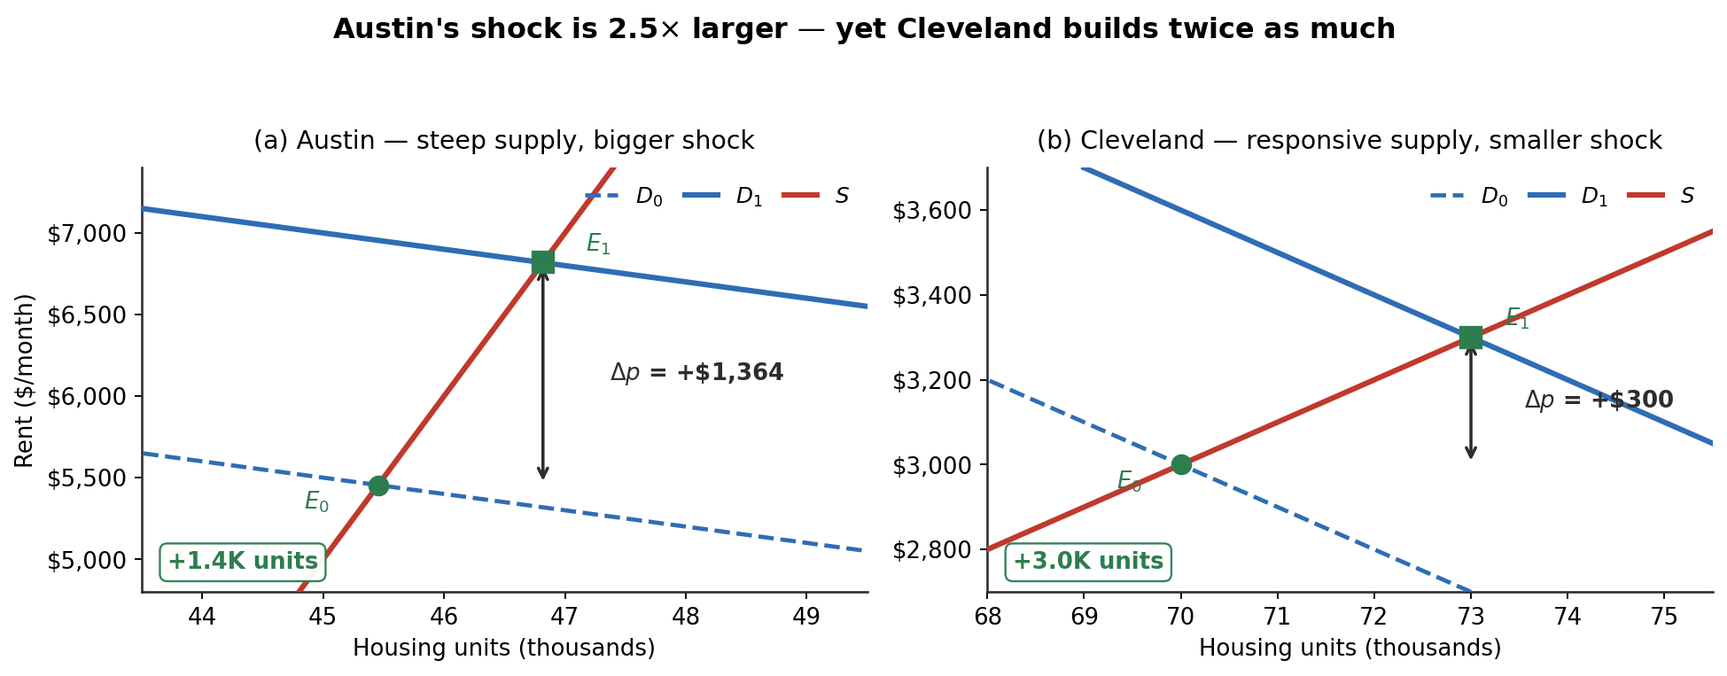
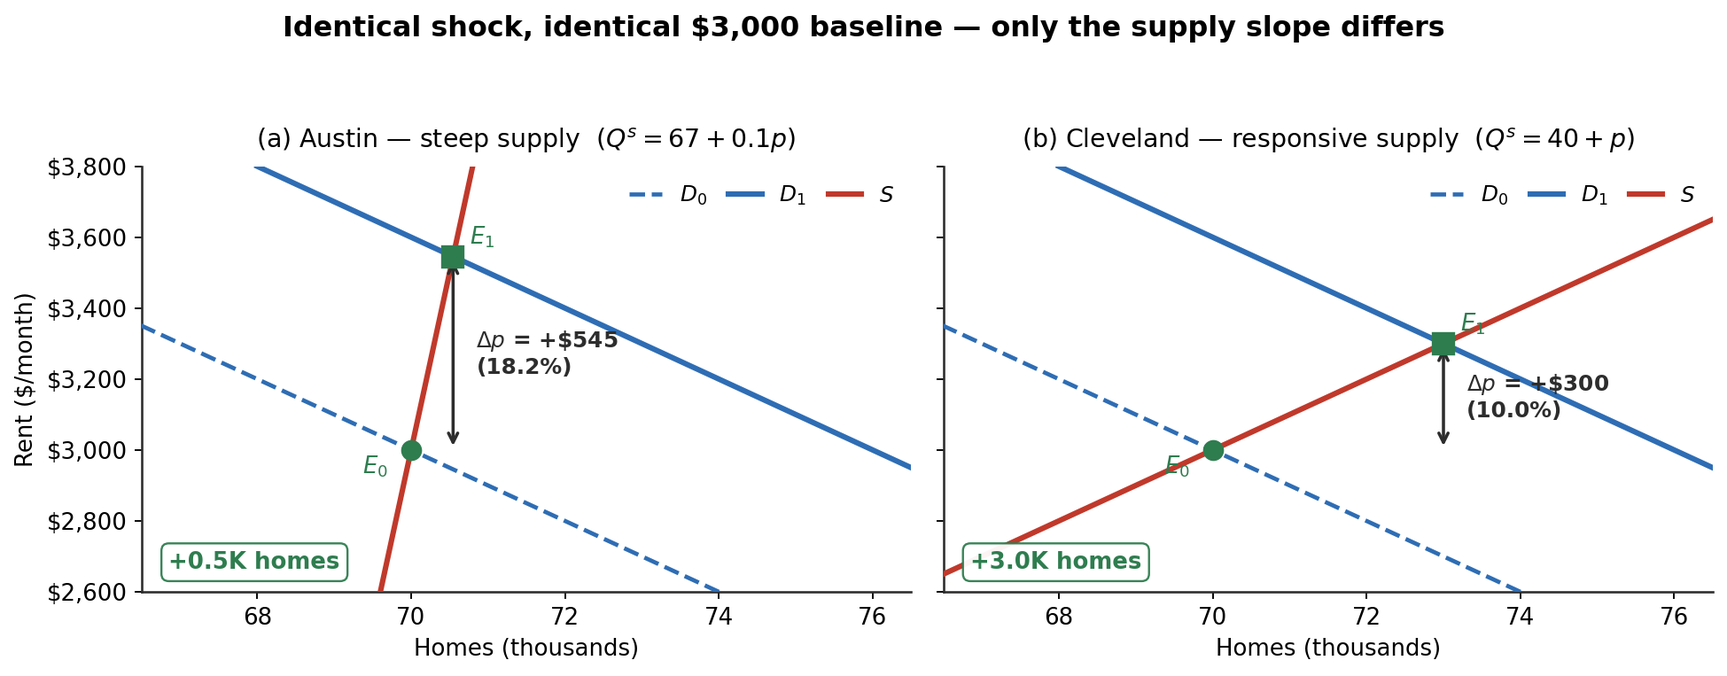
2316 Ch 2: recalibrate Austin vs Cleveland so the gap is a supply-slope result
The Sept 16 slide ran Austin at alpha=15 and Cleveland at alpha=6, which made
the 25%-vs-10% rent gap an artifact of the shock size, not the supply slope:
worked symbolically, the percentage price response is alpha/60 in BOTH cities.

Hold the shock fixed at alpha=6 and move the difference into the supply
intercept (Austin Qs = 67 + 0.1p, Cleveland Qs = 40 + p). Both cities now start
at the same equilibrium ($3,000, 70K) and rents go to $3,545 (+18.2%) and
$3,300 (+10.0%), so 18.2/10 = 1.82 = 0.909/0.500 -- the percentage gap now
EQUALS the ratio of the derivatives.

- W2.6: new calibration, both panels, plus the ratio payoff and rewritten notes
- Poll #5: stem states the controlled comparison; answer moves C -> B, with A/C
  named as the trap (in the real ZORI data Austin's shock was bigger too)
- Slide 35: prints the design condition -- identical shock, identical baseline
- figure_austin_cleveland.png regenerated on shared axes with identical demand
  curves and a shared E0, so only the supply slope differs on screen

diff --git a/econ2316/ch02-supply-demand/index.html b/econ2316/ch02-supply-demand/index.html
@@ -2737,6 +2737,9 @@
        <p style="font-size: 12pt; color: var(--muted-color); margin-top: 10px; font-style: italic;">
         Source: Zillow Observed Rent Index (ZORI), 2020&ndash;2026.
        </p>
+       <div style="background:#f0f5f8;border-left:4px solid var(--secondary-color);border-radius:8px;padding:9px 15px;margin-top:10px;">
+        <p style="font-size:12pt;line-height:1.5;margin:0;"><strong>Design condition for what follows.</strong> In the model we are about to build, both cities get the <em>identical</em> demand shock from the <em>identical</em> starting rent &mdash; so anything that differs in the outcome has to come from <strong>supply</strong>.</p>
+       </div>
       </div>
       <div style="text-align: center;">
        <img alt="ZORI rent paths for Austin (steep 2021-2022 spike) vs Cleveland (smoother growth) 2020-2026" class="figure" src="figures/figure_009_metro_rents.png" style="max-width: 100%; max-height: 460px; box-shadow: 0 4px 14px rgba(0,0,0,0.12); border-radius: 6px;">
@@ -2754,20 +2757,13 @@
       </h2>
       <div style="background: #f8f6f3; border-radius: 10px; padding: 16px 22px;">
        <p style="font-size: 14pt; line-height: 1.7;">
-        Austin rents rose
-        <strong>
-         25%
-        </strong>
-        from 2020 to 2022; Cleveland rents rose
-        <strong>
-         10%
-        </strong>
-        over the same period. Most likely explanation?
+        Both metros start at the <strong>same \$3,000 rent</strong> and absorb the <strong>same</strong>
+        demand shock. Austin rents rise <strong>18.2%</strong>; Cleveland rents rise <strong>10%</strong>. What produced the gap?
        </p>
       </div>
       <div class="poll-grid" data-poll-id="ch02-econ2316-poll-5" style="display: grid; grid-template-columns: 1fr 1fr; gap: 14px; margin-top: 16px; font-size: 14pt;">
        <div class="poll-option" data-choice="A" style="background: #f0f5f8; padding: 14px 20px; border-radius: 8px; cursor: pointer; transition: all 0.2s; border: 3px solid transparent;">
-        A) Austin had a much bigger demand shift
+        A) Austin's demand shock was bigger
        </div>
        <div class="poll-option" data-choice="B" style="background: #f0f5f8; padding: 14px 20px; border-radius: 8px; cursor: pointer; transition: all 0.2s; border: 3px solid transparent;">
         B) Austin's supply curve is steeper (closer to SR)
@@ -2787,7 +2783,7 @@
        </span>
       </p>
       <aside class="notes">
-       Click to vote. Press down-arrow to reveal answer.
+       Click to vote; press 1 for the 60-sec timer. Reveal only once the votes stop arriving. The stem does the pedagogical work: it hands them the controlled comparison, same baseline and same shock, so A and C are ruled out by the setup itself. If a lot of the room picks C, that is the honest real-world instinct and worth naming out loud - in the ZORI data Austin's demand shift WAS bigger. The model holds it fixed on purpose, because that is the only way the supply slope can be identified as the cause.
       </aside>
      </section>
      <section data-poll-results="ch02-econ2316-poll-5" id="poll-4-reveal" style="display: flex; flex-direction: column;">
@@ -2795,25 +2791,30 @@
       <h2>
        <i class="fa-solid fa-check-circle" style="color: var(--success-color);">
        </i>
-       Answer: C &mdash; Both A and B compound
+       Answer: B &mdash; Austin's supply curve is steeper
       </h2>
       <div style="flex: 1; display: grid; grid-template-columns: 1.3fr 1fr; gap: 18px; align-items: center;">
        <div style="text-align: center;">
-        <img alt="Two panels. Austin: steep supply, demand shifts out by the larger amount, equilibrium moves from $5,455 and 45.5 thousand units to $6,818 and 46.8 thousand - rent up $1,364, only 1.4 thousand new units. Cleveland: responsive supply, smaller demand shift, equilibrium moves from $3,000 and 70 thousand units to $3,300 and 73 thousand - rent up $300, and 3.0 thousand new units." class="figure" src="figures/figure_austin_cleveland.png" style="max-width: 100%; max-height: 420px; box-shadow: 0 4px 14px rgba(0,0,0,0.12); border-radius: 6px;">
+        <img alt="Two panels on identical axes with identical demand curves and a shared starting equilibrium at $3,000 and 70 thousand homes. Austin: steep supply Qs = 67 + 0.1p, the same demand shift moves rent to $3,545 - up 18.2 percent - and adds only 0.5 thousand homes. Cleveland: responsive supply Qs = 40 + p, the same demand shift moves rent to $3,300 - up 10.0 percent - and adds 3.0 thousand homes." class="figure" src="figures/figure_austin_cleveland.png" style="max-width: 100%; max-height: 420px; box-shadow: 0 4px 14px rgba(0,0,0,0.12); border-radius: 6px;">
        </div>
        <div>
         <div class="poll-results-chart" data-poll-id="ch02-econ2316-poll-5" style="display: flex; gap: 12px; align-items: flex-end; justify-content: center; height: 68px; margin: 0 0 12px;">
         </div>
         <p style="font-size: 13pt; line-height: 1.55; margin: 0;">
-         Demand shifted more in fast-growing Austin (population inflow);
+         Same shock, same baseline &mdash; the
          <em>
-          and
+          only
          </em>
-         Austin's supply is more inelastic (zoning + slow permitting).
+         difference left is the supply slope: Austin \(0.1\), Cleveland \(1.0\) (zoning + slow permitting).
         </p>
-        <div style="background: #f0fdf4; border-left: 4px solid var(--success-color); padding: 12px 16px; border-radius: 8px; margin-top: 10px;">
-         <p style="font-size: 12.5pt; line-height: 1.55; margin: 0;">
-          <strong>Both are in the picture:</strong> Austin&rsquo;s demand shift is <em>larger</em> <em>and</em> its supply is <em>steeper</em>. The steep curve converts the shock into rent rather than units &mdash; so the bigger shock delivers <strong>fewer</strong> new homes. Walkthrough 2.6 does this in numbers next.
+        <div style="background: #fdf0f0; border-left: 4px solid var(--danger-color); padding: 11px 16px; border-radius: 8px; margin-top: 10px;">
+         <p style="font-size: 12pt; line-height: 1.5; margin: 0;">
+          <strong>Trap (A and C).</strong> In the real ZORI data Austin&rsquo;s demand shift <em>was</em> bigger too &mdash; which is exactly why we hold it fixed here. Let both differ and you can never say which one produced the gap.
+         </p>
+        </div>
+        <div style="background: #f0fdf4; border-left: 4px solid var(--success-color); padding: 11px 16px; border-radius: 8px; margin-top: 8px;">
+         <p style="font-size: 12pt; line-height: 1.5; margin: 0;">
+          Steep supply converts a shock into <strong>rent</strong>; flat supply converts it into <strong>homes</strong>. Walkthrough 2.6 puts a number on it: \(18.2\% \div 10\% = 1.82\), exactly the ratio of the two derivatives.
          </p>
         </div>
        </div>
@@ -2824,26 +2825,26 @@
     <section id="s5-w28">
       <h2><i class="fa-solid fa-pen-to-square" style="color: var(--accent-color);"></i> Walkthrough 2.6 &mdash; Austin vs Cleveland, by the Numbers</h2>
       <div style="background: rgba(196,123,90,0.10); border-left: 4px solid var(--accent-color); border-radius: 6px; padding: 9px 15px; margin: 0 0 10px;">
-       <p style="margin:0;font-size:11.5pt;line-height:1.5;"><strong>Problem.</strong> Both cities: \(Q^d = 100 - p + \alpha_D\). Austin can barely build &mdash; \(Q^s = 40 + 0.1p\); Cleveland can &mdash; \(Q^s = 40 + p\). Both cities start at \(\alpha_D = 0\). In-migration hits Austin harder: <strong>Austin \(\alpha_D: 0 \to 15\)</strong>, <strong>Cleveland \(\alpha_D: 0 \to 6\)</strong>. Units: \(p\) in \$100/month, \(Q\) in thousands. <strong>(a)</strong> Find \(dp^*/d\alpha_D\) each city. <strong>(b)</strong> Give both equilibria \((p^*,Q^*)\), before and after.</p>
+       <p style="margin:0;font-size:11.5pt;line-height:1.5;"><strong>Problem.</strong> Both cities: \(Q^d = 100 - p + \alpha_D\). Austin can barely build &mdash; \(Q^s = 67 + 0.1p\); Cleveland can &mdash; \(Q^s = 40 + p\). Both start at \(\alpha_D = 0\) &mdash; and, by construction, at the <strong>same rent</strong>. The <strong>same</strong> in-migration shock hits both: \(\alpha_D: 0 \to 6\) in each city. Units: \(p\) in \$100/month, \(Q\) in thousands of homes. <strong>(a)</strong> Find \(dp^*/d\alpha_D\) each city. <strong>(b)</strong> Give both equilibria \((p^*,Q^*)\), before and after. <strong>(c)</strong> Compare the two <em>percentage</em> rent changes.</p>
       </div>
       <div style="display: grid; grid-template-columns: 1fr 1fr; gap: 16px; align-items: start;">
        <div>
         <p style="font-size:11pt;text-transform:uppercase;letter-spacing:1.1px;color:var(--danger-color);font-weight:700;margin:0 0 6px;">Austin &mdash; supply nearly vertical</p>
-        <div class="fragment fade-up" data-fragment-index="1" style="background:#f6f8fa;border-left:3px solid var(--danger-color);border-radius:6px;padding:7px 12px;margin:0 0 6px;"><p style="margin:0;font-size:11.5pt;line-height:1.5;"><strong>1.</strong> \(100-p+\alpha = 40+0.1p \Rightarrow 60+\alpha = 1.1p\)</p></div>
-        <div class="fragment fade-up" data-fragment-index="2" style="background:#f6f8fa;border-left:3px solid var(--danger-color);border-radius:6px;padding:7px 12px;margin:0 0 6px;"><p style="margin:0;font-size:11.5pt;line-height:1.5;"><strong>2.</strong> \(p^*=\dfrac{60+\alpha}{1.1}\) &rarr; \(\dfrac{dp^*}{d\alpha_D}\approx\mathbf{0.909}\)</p></div>
-        <div class="fragment fade-up" data-fragment-index="3" style="background:#fdf0f0;border-left:4px solid var(--danger-color);border-radius:7px;padding:9px 12px;"><p style="margin:0 0 3px;font-size:10pt;text-transform:uppercase;letter-spacing:1px;color:var(--danger-color);font-weight:700;">Equilibrium \((p^*,Q^*)\)</p><p style="margin:0;font-size:11.5pt;line-height:1.75;"><strong>Before</strong> \((\alpha_D=0)\): \(p^*=\dfrac{60}{1.1}=54.55\), \(Q^*=100-54.55=45.5\)<br>&nbsp;&nbsp;&rarr; \((\$5{,}455,\ 45.5\text{K})\)<br><strong>After</strong> \((\alpha_D=15)\): \(p^*=\dfrac{60+15}{1.1}=68.18\), \(Q^*=100-68.18+15=46.8\)<br>&nbsp;&nbsp;&rarr; \((\$6{,}818,\ 46.8\text{K})\)<br><strong>Rent \(+25\%\), only \(+1.4\)K units</strong></p></div>
+        <div class="fragment fade-up" data-fragment-index="1" style="background:#f6f8fa;border-left:3px solid var(--danger-color);border-radius:6px;padding:7px 12px;margin:0 0 6px;"><p style="margin:0;font-size:11.5pt;line-height:1.5;"><strong>1.</strong> \(100-p+\alpha = 67+0.1p \Rightarrow 33+\alpha = 1.1p\)</p></div>
+        <div class="fragment fade-up" data-fragment-index="2" style="background:#f6f8fa;border-left:3px solid var(--danger-color);border-radius:6px;padding:7px 12px;margin:0 0 6px;"><p style="margin:0;font-size:11.5pt;line-height:1.5;"><strong>2.</strong> \(p^*=\dfrac{33+\alpha}{1.1}\) &rarr; \(\dfrac{dp^*}{d\alpha_D}\approx\mathbf{0.909}\)</p></div>
+        <div class="fragment fade-up" data-fragment-index="3" style="background:#fdf0f0;border-left:4px solid var(--danger-color);border-radius:7px;padding:9px 12px;"><p style="margin:0 0 3px;font-size:10pt;text-transform:uppercase;letter-spacing:1px;color:var(--danger-color);font-weight:700;">Equilibrium \((p^*,Q^*)\)</p><p style="margin:0;font-size:11.5pt;line-height:1.75;"><strong>Before</strong> \((\alpha_D=0)\): \(p^*=\dfrac{33}{1.1}=30.00\), \(Q^*=100-30=70.0\)<br>&nbsp;&nbsp;&rarr; \((\$3{,}000,\ 70.0\text{K})\)<br><strong>After</strong> \((\alpha_D=6)\): \(p^*=\dfrac{33+6}{1.1}=35.45\), \(Q^*=100-35.45+6=70.5\)<br>&nbsp;&nbsp;&rarr; \((\$3{,}545,\ 70.5\text{K})\)<br><strong>Rent \(+18.2\%\), only \(+0.5\)K homes</strong></p></div>
        </div>
        <div>
         <p style="font-size:11pt;text-transform:uppercase;letter-spacing:1.1px;color:var(--success-color);font-weight:700;margin:0 0 6px;">Cleveland &mdash; supply responsive</p>
         <div class="fragment fade-up" data-fragment-index="4" style="background:#f6f8fa;border-left:3px solid var(--success-color);border-radius:6px;padding:7px 12px;margin:0 0 6px;"><p style="margin:0;font-size:11.5pt;line-height:1.5;"><strong>1.</strong> \(100-p+\alpha = 40+p \Rightarrow 60+\alpha = 2p\)</p></div>
         <div class="fragment fade-up" data-fragment-index="5" style="background:#f6f8fa;border-left:3px solid var(--success-color);border-radius:6px;padding:7px 12px;margin:0 0 6px;"><p style="margin:0;font-size:11.5pt;line-height:1.5;"><strong>2.</strong> \(p^*=30+\dfrac{\alpha}{2}\) &rarr; \(\dfrac{dp^*}{d\alpha_D}=\mathbf{0.500}\)</p></div>
-        <div class="fragment fade-up" data-fragment-index="6" style="background:#f0f5f0;border-left:4px solid var(--success-color);border-radius:7px;padding:9px 12px;"><p style="margin:0 0 3px;font-size:10pt;text-transform:uppercase;letter-spacing:1px;color:var(--success-color);font-weight:700;">Equilibrium \((p^*,Q^*)\)</p><p style="margin:0;font-size:11.5pt;line-height:1.75;"><strong>Before</strong> \((\alpha_D=0)\): \(p^*=\dfrac{60}{2}=30\), \(Q^*=100-30=70\)<br>&nbsp;&nbsp;&rarr; \((\$3{,}000,\ 70.0\text{K})\)<br><strong>After</strong> \((\alpha_D=6)\): \(p^*=\dfrac{60+6}{2}=33\), \(Q^*=100-33+6=73\)<br>&nbsp;&nbsp;&rarr; \((\$3{,}300,\ 73.0\text{K})\)<br><strong>Rent \(+10\%\), and \(+3.0\)K units</strong></p></div>
+        <div class="fragment fade-up" data-fragment-index="6" style="background:#f0f5f0;border-left:4px solid var(--success-color);border-radius:7px;padding:9px 12px;"><p style="margin:0 0 3px;font-size:10pt;text-transform:uppercase;letter-spacing:1px;color:var(--success-color);font-weight:700;">Equilibrium \((p^*,Q^*)\)</p><p style="margin:0;font-size:11.5pt;line-height:1.75;"><strong>Before</strong> \((\alpha_D=0)\): \(p^*=\dfrac{60}{2}=30.00\), \(Q^*=100-30=70.0\)<br>&nbsp;&nbsp;&rarr; \((\$3{,}000,\ 70.0\text{K})\)<br><strong>After</strong> \((\alpha_D=6)\): \(p^*=\dfrac{60+6}{2}=33.00\), \(Q^*=100-33+6=73.0\)<br>&nbsp;&nbsp;&rarr; \((\$3{,}300,\ 73.0\text{K})\)<br><strong>Rent \(+10.0\%\), and \(+3.0\)K homes</strong></p></div>
        </div>
       </div>
       <div class="key-result fragment fade-up" data-fragment-index="7" style="margin-top:10px;">
-       <p style="margin:0;font-size:11.5pt;line-height:1.5;"><strong>Both effects compound &mdash; the poll's answer, in numbers.</strong> Austin takes the bigger shock <em>and</em> has the steeper supply, so almost all of it lands on rent. Cleveland's smaller shock still delivers <strong>twice as many new units</strong>. Supply slope is really a <em>speed</em>: within a year builders cannot respond (Austin); over a decade they can (Cleveland).</p>
+       <p style="margin:0;font-size:11.5pt;line-height:1.5;"><strong>The percentage gap <em>is</em> the ratio of the derivatives.</strong> \(\dfrac{18.2\%}{10.0\%}=\mathbf{1.82}=\dfrac{0.909}{0.500}\). Same shock, same baseline &mdash; so the slide <em>proves</em> the claim rather than merely accompanying it. Austin converts the shock into <strong>rent</strong> (\(+\$545\), \(+0.5\)K homes); Cleveland converts it into <strong>homes</strong> (\(+3.0\)K, only \(+\$300\)). Supply slope is really a <em>speed</em>: within a year builders cannot respond (Austin); over a decade they can (Cleveland).</p>
       </div>
-      <aside class="notes">Recast from the old generic SR/LR housing example onto Austin vs Cleveland, so it lands on the case they just voted on in Poll #5 - predict, then verify. Same solve-then-differentiate method as W2.5 and 42.x; no formula. Calibrated to the real figures: Austin rents +25% and Cleveland +10% over 2020-22. Make the punchline explicit - Austin's shock is 2.5x larger yet produces LESS THAN HALF the new housing, because the steep supply curve converts the shock into rent instead of units. That is the poll's "both A and B compound" made numerical. Then reframe slope as speed: steep supply is the short run (under a year - permits, land, crews), flat supply is the long run (a decade). Same city can be either, depending on the horizon you ask about. Units: price is dollars per month (model units x100), quantity in thousands of units.</aside>
+      <aside class="notes">RECALIBRATED (Sept 2026 review). The old version ran Austin at alpha = 15 and Cleveland at alpha = 6, which made the 25-vs-10 gap an artifact of the shock SIZE, not the supply slope - work it symbolically and the percentage price response is alpha/60 in BOTH cities, identical. The repair holds the shock fixed at alpha = 6 and moves the difference into the supply intercept (Austin 67 instead of 40), which buys two things: both cities now start at exactly the same equilibrium, (\$3,000, 70K), and the percentage gap now EQUALS the ratio of the derivatives. Give them 3 minutes, poll the answer, then reveal - do not narrate straight through. Run the two columns in parallel, not one city then the other, so the only visible difference is the 0.1 against the 1. The payoff is step 7 and it is worth saying twice: 18.2 over 10 is 1.82, and 0.909 over 0.5 is 1.82, so the derivative we computed in part (a) PREDICTS the percentage gap in part (b). That is the whole case for doing comparative statics with calculus. Then reframe slope as speed: steep supply is the short run (under a year - permits, land, crews), flat supply is the long run (a decade); the same city can be either, depending on the horizon you ask about. SPEAK THE UNITS IN FULL: "three thousand dollars a month", not "30", and "seventy thousand homes", not "70" - model price is in hundreds of dollars per month and quantity in thousands of homes.</aside>
      </section>
     <!-- ===== Slide 36 — §5 Application 2.6: Greedflation ===== -->
     

diff --git a/econ2316/ch02-supply-demand/presentation.html b/econ2316/ch02-supply-demand/presentation.html
@@ -2737,6 +2737,9 @@
        <p style="font-size: 12pt; color: var(--muted-color); margin-top: 10px; font-style: italic;">
         Source: Zillow Observed Rent Index (ZORI), 2020&ndash;2026.
        </p>
+       <div style="background:#f0f5f8;border-left:4px solid var(--secondary-color);border-radius:8px;padding:9px 15px;margin-top:10px;">
+        <p style="font-size:12pt;line-height:1.5;margin:0;"><strong>Design condition for what follows.</strong> In the model we are about to build, both cities get the <em>identical</em> demand shock from the <em>identical</em> starting rent &mdash; so anything that differs in the outcome has to come from <strong>supply</strong>.</p>
+       </div>
       </div>
       <div style="text-align: center;">
        <img alt="ZORI rent paths for Austin (steep 2021-2022 spike) vs Cleveland (smoother growth) 2020-2026" class="figure" src="figures/figure_009_metro_rents.png" style="max-width: 100%; max-height: 460px; box-shadow: 0 4px 14px rgba(0,0,0,0.12); border-radius: 6px;">
@@ -2754,20 +2757,13 @@
       </h2>
       <div style="background: #f8f6f3; border-radius: 10px; padding: 16px 22px;">
        <p style="font-size: 14pt; line-height: 1.7;">
-        Austin rents rose
-        <strong>
-         25%
-        </strong>
-        from 2020 to 2022; Cleveland rents rose
-        <strong>
-         10%
-        </strong>
-        over the same period. Most likely explanation?
+        Both metros start at the <strong>same \$3,000 rent</strong> and absorb the <strong>same</strong>
+        demand shock. Austin rents rise <strong>18.2%</strong>; Cleveland rents rise <strong>10%</strong>. What produced the gap?
        </p>
       </div>
       <div class="poll-grid" data-poll-id="ch02-econ2316-poll-5" style="display: grid; grid-template-columns: 1fr 1fr; gap: 14px; margin-top: 16px; font-size: 14pt;">
        <div class="poll-option" data-choice="A" style="background: #f0f5f8; padding: 14px 20px; border-radius: 8px; cursor: pointer; transition: all 0.2s; border: 3px solid transparent;">
-        A) Austin had a much bigger demand shift
+        A) Austin's demand shock was bigger
        </div>
        <div class="poll-option" data-choice="B" style="background: #f0f5f8; padding: 14px 20px; border-radius: 8px; cursor: pointer; transition: all 0.2s; border: 3px solid transparent;">
         B) Austin's supply curve is steeper (closer to SR)
@@ -2787,7 +2783,7 @@
        </span>
       </p>
       <aside class="notes">
-       Click to vote. Press down-arrow to reveal answer.
+       Click to vote; press 1 for the 60-sec timer. Reveal only once the votes stop arriving. The stem does the pedagogical work: it hands them the controlled comparison, same baseline and same shock, so A and C are ruled out by the setup itself. If a lot of the room picks C, that is the honest real-world instinct and worth naming out loud - in the ZORI data Austin's demand shift WAS bigger. The model holds it fixed on purpose, because that is the only way the supply slope can be identified as the cause.
       </aside>
      </section>
      <section data-poll-results="ch02-econ2316-poll-5" id="poll-4-reveal" style="display: flex; flex-direction: column;">
@@ -2795,25 +2791,30 @@
       <h2>
        <i class="fa-solid fa-check-circle" style="color: var(--success-color);">
        </i>
-       Answer: C &mdash; Both A and B compound
+       Answer: B &mdash; Austin's supply curve is steeper
       </h2>
       <div style="flex: 1; display: grid; grid-template-columns: 1.3fr 1fr; gap: 18px; align-items: center;">
        <div style="text-align: center;">
-        <img alt="Two panels. Austin: steep supply, demand shifts out by the larger amount, equilibrium moves from $5,455 and 45.5 thousand units to $6,818 and 46.8 thousand - rent up $1,364, only 1.4 thousand new units. Cleveland: responsive supply, smaller demand shift, equilibrium moves from $3,000 and 70 thousand units to $3,300 and 73 thousand - rent up $300, and 3.0 thousand new units." class="figure" src="figures/figure_austin_cleveland.png" style="max-width: 100%; max-height: 420px; box-shadow: 0 4px 14px rgba(0,0,0,0.12); border-radius: 6px;">
+        <img alt="Two panels on identical axes with identical demand curves and a shared starting equilibrium at $3,000 and 70 thousand homes. Austin: steep supply Qs = 67 + 0.1p, the same demand shift moves rent to $3,545 - up 18.2 percent - and adds only 0.5 thousand homes. Cleveland: responsive supply Qs = 40 + p, the same demand shift moves rent to $3,300 - up 10.0 percent - and adds 3.0 thousand homes." class="figure" src="figures/figure_austin_cleveland.png" style="max-width: 100%; max-height: 420px; box-shadow: 0 4px 14px rgba(0,0,0,0.12); border-radius: 6px;">
        </div>
        <div>
         <div class="poll-results-chart" data-poll-id="ch02-econ2316-poll-5" style="display: flex; gap: 12px; align-items: flex-end; justify-content: center; height: 68px; margin: 0 0 12px;">
         </div>
         <p style="font-size: 13pt; line-height: 1.55; margin: 0;">
-         Demand shifted more in fast-growing Austin (population inflow);
+         Same shock, same baseline &mdash; the
          <em>
-          and
+          only
          </em>
-         Austin's supply is more inelastic (zoning + slow permitting).
+         difference left is the supply slope: Austin \(0.1\), Cleveland \(1.0\) (zoning + slow permitting).
         </p>
-        <div style="background: #f0fdf4; border-left: 4px solid var(--success-color); padding: 12px 16px; border-radius: 8px; margin-top: 10px;">
-         <p style="font-size: 12.5pt; line-height: 1.55; margin: 0;">
-          <strong>Both are in the picture:</strong> Austin&rsquo;s demand shift is <em>larger</em> <em>and</em> its supply is <em>steeper</em>. The steep curve converts the shock into rent rather than units &mdash; so the bigger shock delivers <strong>fewer</strong> new homes. Walkthrough 2.6 does this in numbers next.
+        <div style="background: #fdf0f0; border-left: 4px solid var(--danger-color); padding: 11px 16px; border-radius: 8px; margin-top: 10px;">
+         <p style="font-size: 12pt; line-height: 1.5; margin: 0;">
+          <strong>Trap (A and C).</strong> In the real ZORI data Austin&rsquo;s demand shift <em>was</em> bigger too &mdash; which is exactly why we hold it fixed here. Let both differ and you can never say which one produced the gap.
+         </p>
+        </div>
+        <div style="background: #f0fdf4; border-left: 4px solid var(--success-color); padding: 11px 16px; border-radius: 8px; margin-top: 8px;">
+         <p style="font-size: 12pt; line-height: 1.5; margin: 0;">
+          Steep supply converts a shock into <strong>rent</strong>; flat supply converts it into <strong>homes</strong>. Walkthrough 2.6 puts a number on it: \(18.2\% \div 10\% = 1.82\), exactly the ratio of the two derivatives.
          </p>
         </div>
        </div>
@@ -2824,26 +2825,26 @@
     <section id="s5-w28">
       <h2><i class="fa-solid fa-pen-to-square" style="color: var(--accent-color);"></i> Walkthrough 2.6 &mdash; Austin vs Cleveland, by the Numbers</h2>
       <div style="background: rgba(196,123,90,0.10); border-left: 4px solid var(--accent-color); border-radius: 6px; padding: 9px 15px; margin: 0 0 10px;">
-       <p style="margin:0;font-size:11.5pt;line-height:1.5;"><strong>Problem.</strong> Both cities: \(Q^d = 100 - p + \alpha_D\). Austin can barely build &mdash; \(Q^s = 40 + 0.1p\); Cleveland can &mdash; \(Q^s = 40 + p\). Both cities start at \(\alpha_D = 0\). In-migration hits Austin harder: <strong>Austin \(\alpha_D: 0 \to 15\)</strong>, <strong>Cleveland \(\alpha_D: 0 \to 6\)</strong>. Units: \(p\) in \$100/month, \(Q\) in thousands. <strong>(a)</strong> Find \(dp^*/d\alpha_D\) each city. <strong>(b)</strong> Give both equilibria \((p^*,Q^*)\), before and after.</p>
+       <p style="margin:0;font-size:11.5pt;line-height:1.5;"><strong>Problem.</strong> Both cities: \(Q^d = 100 - p + \alpha_D\). Austin can barely build &mdash; \(Q^s = 67 + 0.1p\); Cleveland can &mdash; \(Q^s = 40 + p\). Both start at \(\alpha_D = 0\) &mdash; and, by construction, at the <strong>same rent</strong>. The <strong>same</strong> in-migration shock hits both: \(\alpha_D: 0 \to 6\) in each city. Units: \(p\) in \$100/month, \(Q\) in thousands of homes. <strong>(a)</strong> Find \(dp^*/d\alpha_D\) each city. <strong>(b)</strong> Give both equilibria \((p^*,Q^*)\), before and after. <strong>(c)</strong> Compare the two <em>percentage</em> rent changes.</p>
       </div>
       <div style="display: grid; grid-template-columns: 1fr 1fr; gap: 16px; align-items: start;">
        <div>
         <p style="font-size:11pt;text-transform:uppercase;letter-spacing:1.1px;color:var(--danger-color);font-weight:700;margin:0 0 6px;">Austin &mdash; supply nearly vertical</p>
-        <div class="fragment fade-up" data-fragment-index="1" style="background:#f6f8fa;border-left:3px solid var(--danger-color);border-radius:6px;padding:7px 12px;margin:0 0 6px;"><p style="margin:0;font-size:11.5pt;line-height:1.5;"><strong>1.</strong> \(100-p+\alpha = 40+0.1p \Rightarrow 60+\alpha = 1.1p\)</p></div>
-        <div class="fragment fade-up" data-fragment-index="2" style="background:#f6f8fa;border-left:3px solid var(--danger-color);border-radius:6px;padding:7px 12px;margin:0 0 6px;"><p style="margin:0;font-size:11.5pt;line-height:1.5;"><strong>2.</strong> \(p^*=\dfrac{60+\alpha}{1.1}\) &rarr; \(\dfrac{dp^*}{d\alpha_D}\approx\mathbf{0.909}\)</p></div>
-        <div class="fragment fade-up" data-fragment-index="3" style="background:#fdf0f0;border-left:4px solid var(--danger-color);border-radius:7px;padding:9px 12px;"><p style="margin:0 0 3px;font-size:10pt;text-transform:uppercase;letter-spacing:1px;color:var(--danger-color);font-weight:700;">Equilibrium \((p^*,Q^*)\)</p><p style="margin:0;font-size:11.5pt;line-height:1.75;"><strong>Before</strong> \((\alpha_D=0)\): \(p^*=\dfrac{60}{1.1}=54.55\), \(Q^*=100-54.55=45.5\)<br>&nbsp;&nbsp;&rarr; \((\$5{,}455,\ 45.5\text{K})\)<br><strong>After</strong> \((\alpha_D=15)\): \(p^*=\dfrac{60+15}{1.1}=68.18\), \(Q^*=100-68.18+15=46.8\)<br>&nbsp;&nbsp;&rarr; \((\$6{,}818,\ 46.8\text{K})\)<br><strong>Rent \(+25\%\), only \(+1.4\)K units</strong></p></div>
+        <div class="fragment fade-up" data-fragment-index="1" style="background:#f6f8fa;border-left:3px solid var(--danger-color);border-radius:6px;padding:7px 12px;margin:0 0 6px;"><p style="margin:0;font-size:11.5pt;line-height:1.5;"><strong>1.</strong> \(100-p+\alpha = 67+0.1p \Rightarrow 33+\alpha = 1.1p\)</p></div>
+        <div class="fragment fade-up" data-fragment-index="2" style="background:#f6f8fa;border-left:3px solid var(--danger-color);border-radius:6px;padding:7px 12px;margin:0 0 6px;"><p style="margin:0;font-size:11.5pt;line-height:1.5;"><strong>2.</strong> \(p^*=\dfrac{33+\alpha}{1.1}\) &rarr; \(\dfrac{dp^*}{d\alpha_D}\approx\mathbf{0.909}\)</p></div>
+        <div class="fragment fade-up" data-fragment-index="3" style="background:#fdf0f0;border-left:4px solid var(--danger-color);border-radius:7px;padding:9px 12px;"><p style="margin:0 0 3px;font-size:10pt;text-transform:uppercase;letter-spacing:1px;color:var(--danger-color);font-weight:700;">Equilibrium \((p^*,Q^*)\)</p><p style="margin:0;font-size:11.5pt;line-height:1.75;"><strong>Before</strong> \((\alpha_D=0)\): \(p^*=\dfrac{33}{1.1}=30.00\), \(Q^*=100-30=70.0\)<br>&nbsp;&nbsp;&rarr; \((\$3{,}000,\ 70.0\text{K})\)<br><strong>After</strong> \((\alpha_D=6)\): \(p^*=\dfrac{33+6}{1.1}=35.45\), \(Q^*=100-35.45+6=70.5\)<br>&nbsp;&nbsp;&rarr; \((\$3{,}545,\ 70.5\text{K})\)<br><strong>Rent \(+18.2\%\), only \(+0.5\)K homes</strong></p></div>
        </div>
        <div>
         <p style="font-size:11pt;text-transform:uppercase;letter-spacing:1.1px;color:var(--success-color);font-weight:700;margin:0 0 6px;">Cleveland &mdash; supply responsive</p>
         <div class="fragment fade-up" data-fragment-index="4" style="background:#f6f8fa;border-left:3px solid var(--success-color);border-radius:6px;padding:7px 12px;margin:0 0 6px;"><p style="margin:0;font-size:11.5pt;line-height:1.5;"><strong>1.</strong> \(100-p+\alpha = 40+p \Rightarrow 60+\alpha = 2p\)</p></div>
         <div class="fragment fade-up" data-fragment-index="5" style="background:#f6f8fa;border-left:3px solid var(--success-color);border-radius:6px;padding:7px 12px;margin:0 0 6px;"><p style="margin:0;font-size:11.5pt;line-height:1.5;"><strong>2.</strong> \(p^*=30+\dfrac{\alpha}{2}\) &rarr; \(\dfrac{dp^*}{d\alpha_D}=\mathbf{0.500}\)</p></div>
-        <div class="fragment fade-up" data-fragment-index="6" style="background:#f0f5f0;border-left:4px solid var(--success-color);border-radius:7px;padding:9px 12px;"><p style="margin:0 0 3px;font-size:10pt;text-transform:uppercase;letter-spacing:1px;color:var(--success-color);font-weight:700;">Equilibrium \((p^*,Q^*)\)</p><p style="margin:0;font-size:11.5pt;line-height:1.75;"><strong>Before</strong> \((\alpha_D=0)\): \(p^*=\dfrac{60}{2}=30\), \(Q^*=100-30=70\)<br>&nbsp;&nbsp;&rarr; \((\$3{,}000,\ 70.0\text{K})\)<br><strong>After</strong> \((\alpha_D=6)\): \(p^*=\dfrac{60+6}{2}=33\), \(Q^*=100-33+6=73\)<br>&nbsp;&nbsp;&rarr; \((\$3{,}300,\ 73.0\text{K})\)<br><strong>Rent \(+10\%\), and \(+3.0\)K units</strong></p></div>
+        <div class="fragment fade-up" data-fragment-index="6" style="background:#f0f5f0;border-left:4px solid var(--success-color);border-radius:7px;padding:9px 12px;"><p style="margin:0 0 3px;font-size:10pt;text-transform:uppercase;letter-spacing:1px;color:var(--success-color);font-weight:700;">Equilibrium \((p^*,Q^*)\)</p><p style="margin:0;font-size:11.5pt;line-height:1.75;"><strong>Before</strong> \((\alpha_D=0)\): \(p^*=\dfrac{60}{2}=30.00\), \(Q^*=100-30=70.0\)<br>&nbsp;&nbsp;&rarr; \((\$3{,}000,\ 70.0\text{K})\)<br><strong>After</strong> \((\alpha_D=6)\): \(p^*=\dfrac{60+6}{2}=33.00\), \(Q^*=100-33+6=73.0\)<br>&nbsp;&nbsp;&rarr; \((\$3{,}300,\ 73.0\text{K})\)<br><strong>Rent \(+10.0\%\), and \(+3.0\)K homes</strong></p></div>
        </div>
       </div>
       <div class="key-result fragment fade-up" data-fragment-index="7" style="margin-top:10px;">
-       <p style="margin:0;font-size:11.5pt;line-height:1.5;"><strong>Both effects compound &mdash; the poll's answer, in numbers.</strong> Austin takes the bigger shock <em>and</em> has the steeper supply, so almost all of it lands on rent. Cleveland's smaller shock still delivers <strong>twice as many new units</strong>. Supply slope is really a <em>speed</em>: within a year builders cannot respond (Austin); over a decade they can (Cleveland).</p>
+       <p style="margin:0;font-size:11.5pt;line-height:1.5;"><strong>The percentage gap <em>is</em> the ratio of the derivatives.</strong> \(\dfrac{18.2\%}{10.0\%}=\mathbf{1.82}=\dfrac{0.909}{0.500}\). Same shock, same baseline &mdash; so the slide <em>proves</em> the claim rather than merely accompanying it. Austin converts the shock into <strong>rent</strong> (\(+\$545\), \(+0.5\)K homes); Cleveland converts it into <strong>homes</strong> (\(+3.0\)K, only \(+\$300\)). Supply slope is really a <em>speed</em>: within a year builders cannot respond (Austin); over a decade they can (Cleveland).</p>
       </div>
-      <aside class="notes">Recast from the old generic SR/LR housing example onto Austin vs Cleveland, so it lands on the case they just voted on in Poll #5 - predict, then verify. Same solve-then-differentiate method as W2.5 and 42.x; no formula. Calibrated to the real figures: Austin rents +25% and Cleveland +10% over 2020-22. Make the punchline explicit - Austin's shock is 2.5x larger yet produces LESS THAN HALF the new housing, because the steep supply curve converts the shock into rent instead of units. That is the poll's "both A and B compound" made numerical. Then reframe slope as speed: steep supply is the short run (under a year - permits, land, crews), flat supply is the long run (a decade). Same city can be either, depending on the horizon you ask about. Units: price is dollars per month (model units x100), quantity in thousands of units.</aside>
+      <aside class="notes">RECALIBRATED (Sept 2026 review). The old version ran Austin at alpha = 15 and Cleveland at alpha = 6, which made the 25-vs-10 gap an artifact of the shock SIZE, not the supply slope - work it symbolically and the percentage price response is alpha/60 in BOTH cities, identical. The repair holds the shock fixed at alpha = 6 and moves the difference into the supply intercept (Austin 67 instead of 40), which buys two things: both cities now start at exactly the same equilibrium, (\$3,000, 70K), and the percentage gap now EQUALS the ratio of the derivatives. Give them 3 minutes, poll the answer, then reveal - do not narrate straight through. Run the two columns in parallel, not one city then the other, so the only visible difference is the 0.1 against the 1. The payoff is step 7 and it is worth saying twice: 18.2 over 10 is 1.82, and 0.909 over 0.5 is 1.82, so the derivative we computed in part (a) PREDICTS the percentage gap in part (b). That is the whole case for doing comparative statics with calculus. Then reframe slope as speed: steep supply is the short run (under a year - permits, land, crews), flat supply is the long run (a decade); the same city can be either, depending on the horizon you ask about. SPEAK THE UNITS IN FULL: "three thousand dollars a month", not "30", and "seventy thousand homes", not "70" - model price is in hundreds of dollars per month and quantity in thousands of homes.</aside>
      </section>
     <!-- ===== Slide 36 — §5 Application 2.6: Greedflation ===== -->
     
